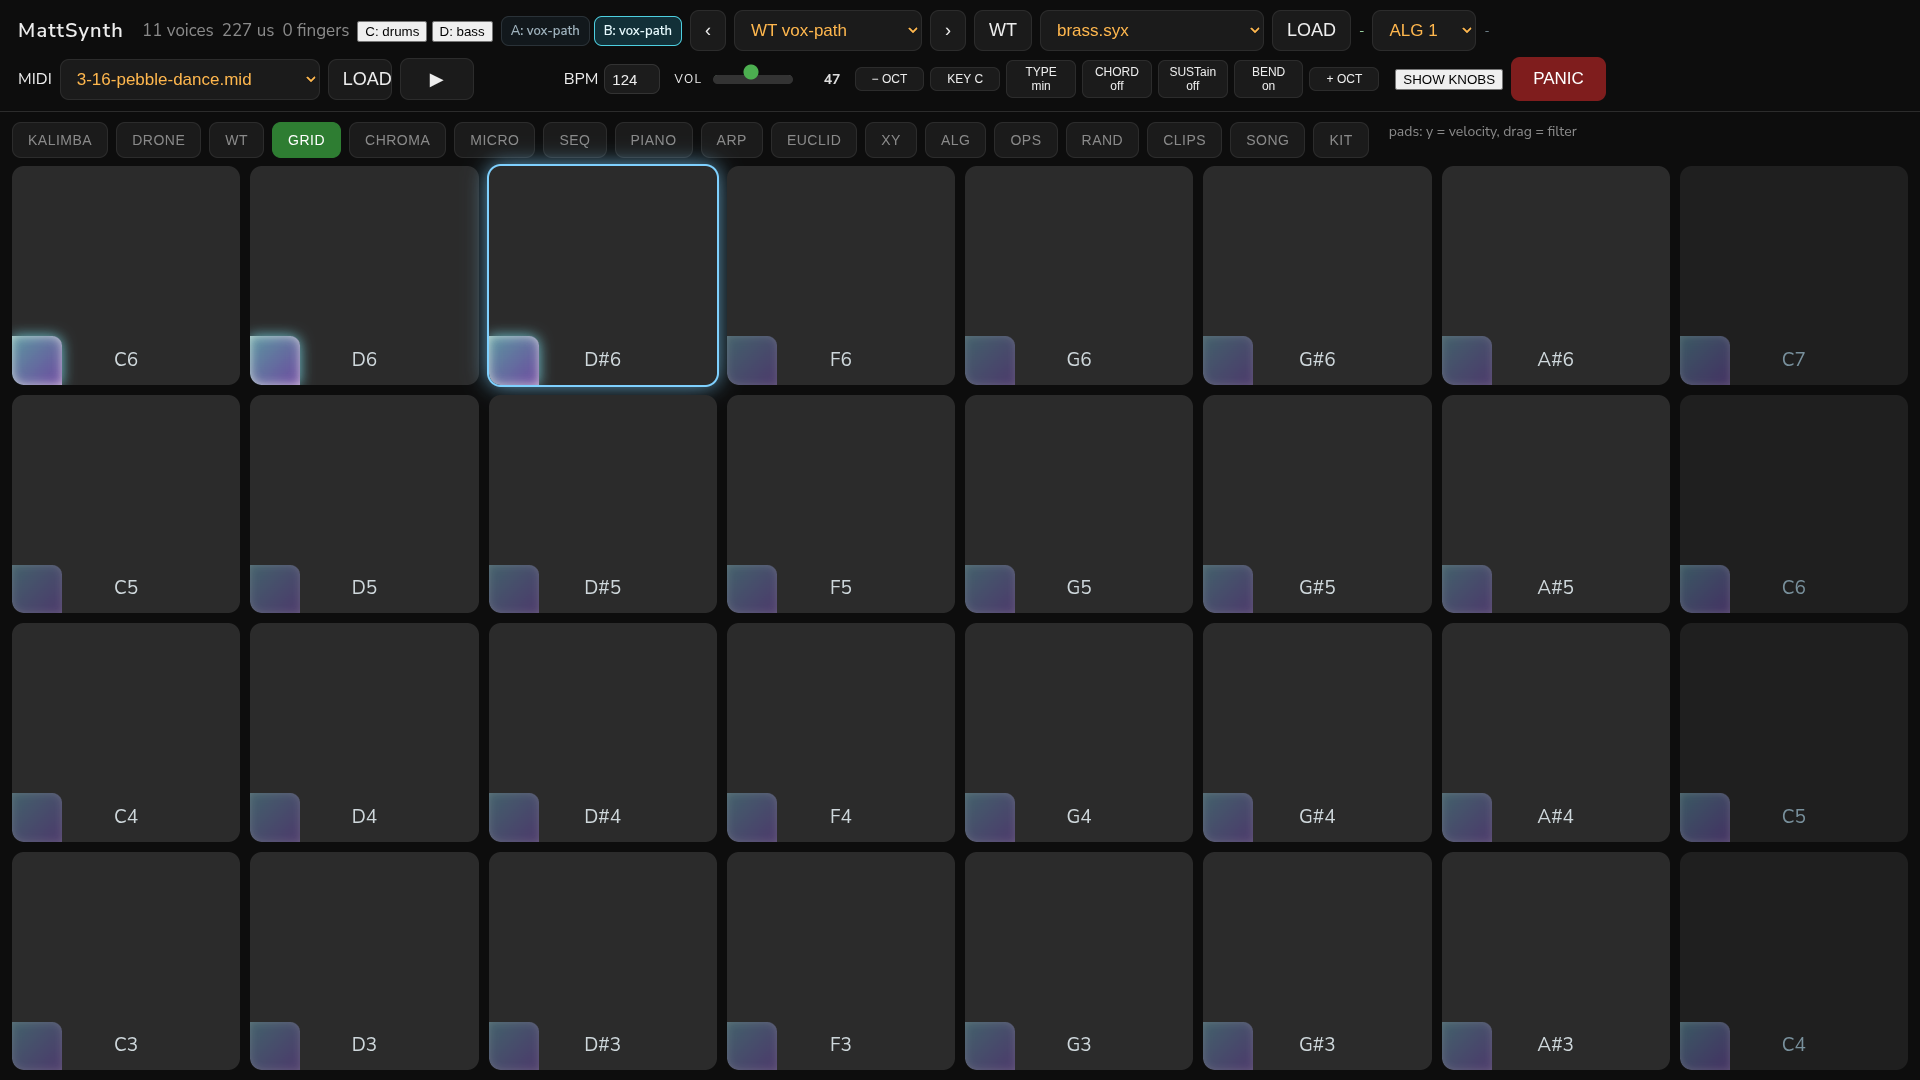
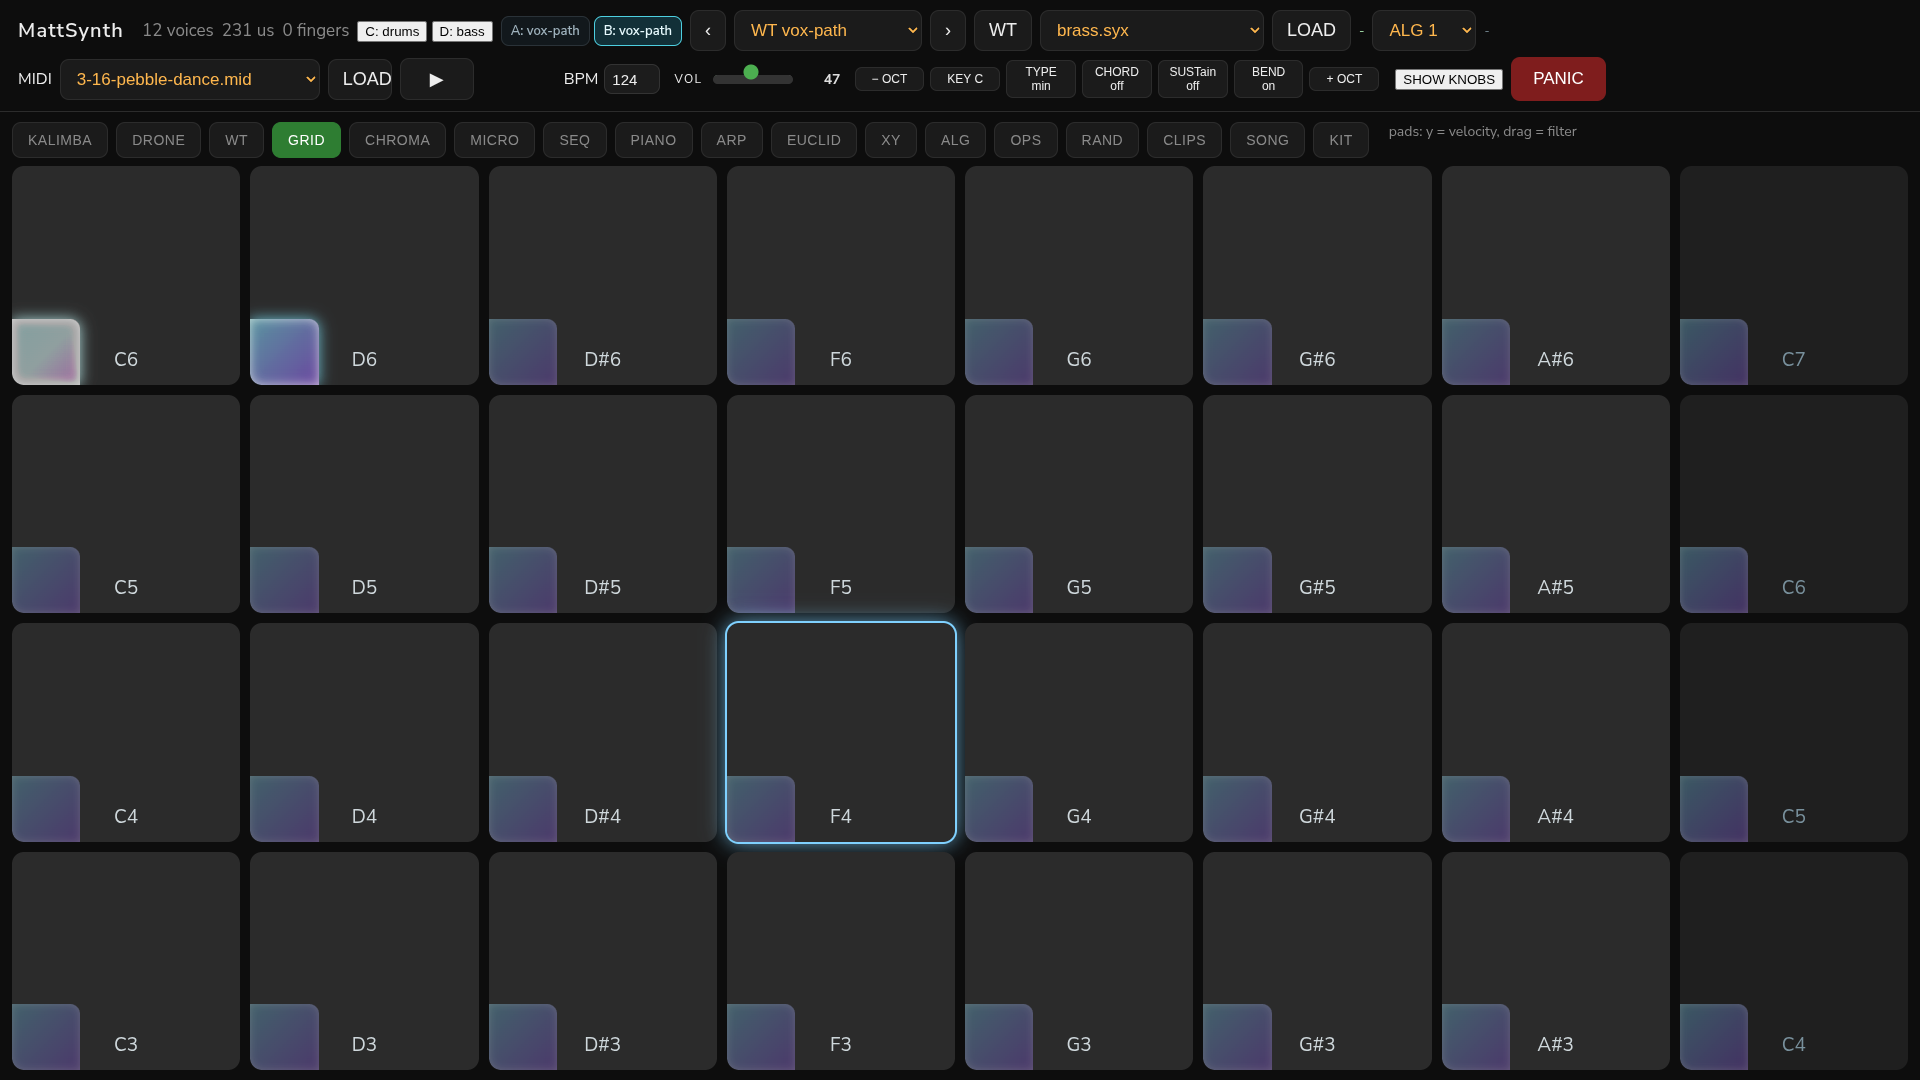
grid: bigger arp corners, and the first note sustains until a second arrives
The corner is thirty percent of the pad now, easier to find with a thumb. One corner
holds its note and sounds straight away; a second corner hands over to the cycle, and
dropping back to one corner returns to a plain sustained note rather than silence.

diff --git a/panel/panel_ui.py b/panel/panel_ui.py
@@ -614,7 +614,7 @@ input[type=range]::-webkit-slider-thumb { -webkit-appearance:none; width:30px; h
 #mrow.hex { position:relative; flex:1; min-height:0; }
 #mrow.hex .mkey { position:absolute; border:none; border-radius:0;
                   clip-path:polygon(50% 0%,100% 25%,100% 75%,50% 100%,0 75%,0 25%); }
-  .arpz { position:absolute; left:0; bottom:0; width:22%; height:22%;
+  .arpz { position:absolute; left:0; bottom:0; width:30%; height:30%;
         border-top-right-radius:10px; border-bottom-left-radius:inherit;
         background:linear-gradient(135deg, rgba(120,220,255,.55), rgba(150,90,255,.55));
         box-shadow:inset 0 0 8px rgba(255,255,255,.35);
@@ -1223,7 +1223,7 @@ function buildKalimba(){
 /* The bottom left corner of every grid pad is a latch. Hold corners on two or more
    pads and the notes cycle, up then down, one sixteenth of the global tempo per step.
    The corners are pointer targets in their own right, so the pad itself still plays. */
-const gArp = { held:new Map(), timer:null, step:0, playing:false, flash:null };
+const gArp = { held:new Map(), timer:null, step:0, playing:false, sustain:-1 };
 
 function gArpMs(){ return 60000 / Math.max(30, bpm | 0) / 4; }
 
@@ -1237,11 +1237,20 @@ function gArpOrder(){
   return up.concat(down);          /* 1 2 3 2 1 2 3 ... */
 }
 
-function gArpStop(){
+function gArpStopTimer(){
   if(gArp.timer) clearInterval(gArp.timer);
   gArp.timer = null; gArp.playing = false; gArp.step = 0;
-  gArp.held.forEach((el)=>{ if(el) el.classList.remove("on"); });
   document.querySelectorAll(".pad.arpFire").forEach(e=> e.classList.remove("arpFire"));
+}
+
+function gArpSilence(){
+  if(gArp.sustain >= 0){ send("O " + gArp.sustain); gArp.sustain = -1; }
+}
+
+function gArpStop(){
+  gArpStopTimer();
+  gArpSilence();
+  gArp.held.forEach((el)=>{ if(el) el.classList.remove("on"); });
 }
 
 function gArpTick(){
@@ -1259,13 +1268,26 @@ function gArpTick(){
 
 function gArpSync(){
   const n = gArpNotes();
-  if(n.length >= 2 && !gArp.timer){
-    gArp.step = 0;
-    gArp.timer = setInterval(gArpTick, gArpMs());
-    gArp.playing = true;
-    gArpTick();
-  } else if(n.length < 2 && gArp.timer){
-    gArpStop();
+  if(n.length >= 2){
+    /* the arp takes over from the single sustained note */
+    gArpSilence();
+    if(!gArp.timer){
+      gArp.step = 0;
+      gArp.timer = setInterval(gArpTick, gArpMs());
+      gArp.playing = true;
+      gArpTick();
+    }
+  } else if(n.length === 1){
+    /* one corner: hold that note, and stop cycling */
+    gArpStopTimer();
+    if(gArp.sustain !== n[0]){
+      gArpSilence();
+      send("N " + n[0] + " 108 " + part);
+      gArp.sustain = n[0];
+    }
+  } else {
+    gArpStopTimer();
+    gArpSilence();
   }
   gArp.held.forEach((el)=> { if(el) el.classList.add("on"); });
 }
